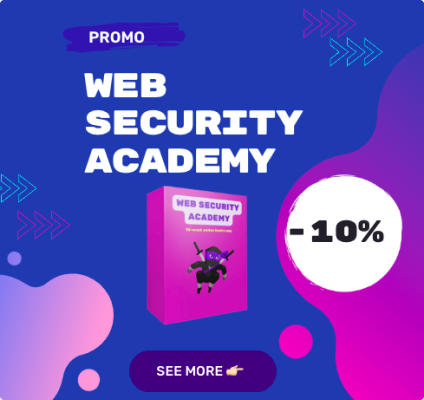
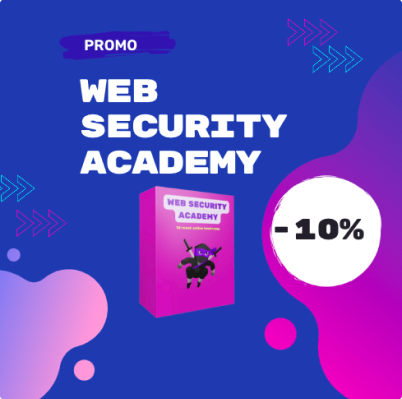
Add chip component and adjust promo image on hover

diff --git a/source/index.html b/source/index.html
@@ -393,15 +393,17 @@ title: Dev-Academy.com - Web security | Testing & automation | Application archi
     </div>
 </div>
 <div class="academy-special-offer-wrapper">
+    <span class="chip chip-primary chip-rounded-right">We have special price!</span>
     <div class="container">
         <div class="academy-special-offer">
-            <a href="#">
+            <a href="#" class="academy-special-offer-link">
                 <figure>
                     <picture>
                         <source srcset="/img/homepage/web-security-promo.png" type="image/webp">
                         <img src="/img/homepage/web-security-promo.png" alt="Web Security Promo">
                     </picture>
                 </figure>
+                <button class="button button-primary">See more</button>
             </a>
         </div>
     </div>

diff --git a/themes/my-theme/source/css/components/_chip.scss b/themes/my-theme/source/css/components/_chip.scss
@@ -1,0 +1,37 @@
+.chip {
+  font-size: $font-size-20;
+  line-height: 1.2;
+  font-weight: 600;
+  padding: 1.8rem 5rem;
+  text-transform: uppercase;
+  z-index: $z-index-100;
+}
+
+.chip-primary {
+  background-color: $indigo-600;
+  color: $light-100;
+}
+
+.chip-secondary {
+  background-color: $light-250;
+  color: $navy-600;
+}
+
+.chip-black {
+  background-color: $dark-350;
+  color: $light-100;
+}
+
+.chip-rounded {
+  border-radius: 5rem;
+}
+
+.chip-rounded-right {
+  border-top-right-radius: 5rem;
+  border-bottom-right-radius: 5rem;
+}
+
+.chip-rounded-left {
+  border-top-left-radius: 5rem;
+  border-bottom-left-radius: 5rem;
+}

diff --git a/themes/my-theme/source/css/pages/_homepage.scss b/themes/my-theme/source/css/pages/_homepage.scss
@@ -506,4 +506,29 @@
 
 .academy-special-offer-wrapper {
   padding-bottom: 6rem;
+  position: relative;
+
+  .chip {
+    position: absolute;
+    top: -6rem;
+    left: 0;
+  }
+}
+
+.academy-special-offer-link {
+  position: relative;
+
+  .button {
+    position: absolute;
+    bottom: 1rem;
+    left: 50%;
+    transform: translateX(-50%);
+  }
+
+  &:hover {
+    .button {
+      color: $indigo-600;
+      background-color: $indigo-150;
+    }
+  }
 }

diff --git a/themes/my-theme/source/css/styles.scss b/themes/my-theme/source/css/styles.scss
@@ -19,6 +19,7 @@
 @import 'components/bar-top';
 @import 'components/border';
 @import 'components/button';
+@import 'components/chip';
 @import 'components/cookie-consent';
 @import 'components/custom-subscribe';
 @import 'components/info-box';

diff --git a/themes/my-theme/source/css/desktop.scss b/themes/my-theme/source/css/desktop.scss
@@ -1121,6 +1121,12 @@
   .academy-destination-info-boxes .info-box {
     visibility: hidden;
   }
+
+  .academy-special-offer-wrapper {
+    .chip {
+      top: 3rem;
+    }
+  }
 }
 
 @media (min-width: 1366px) {
